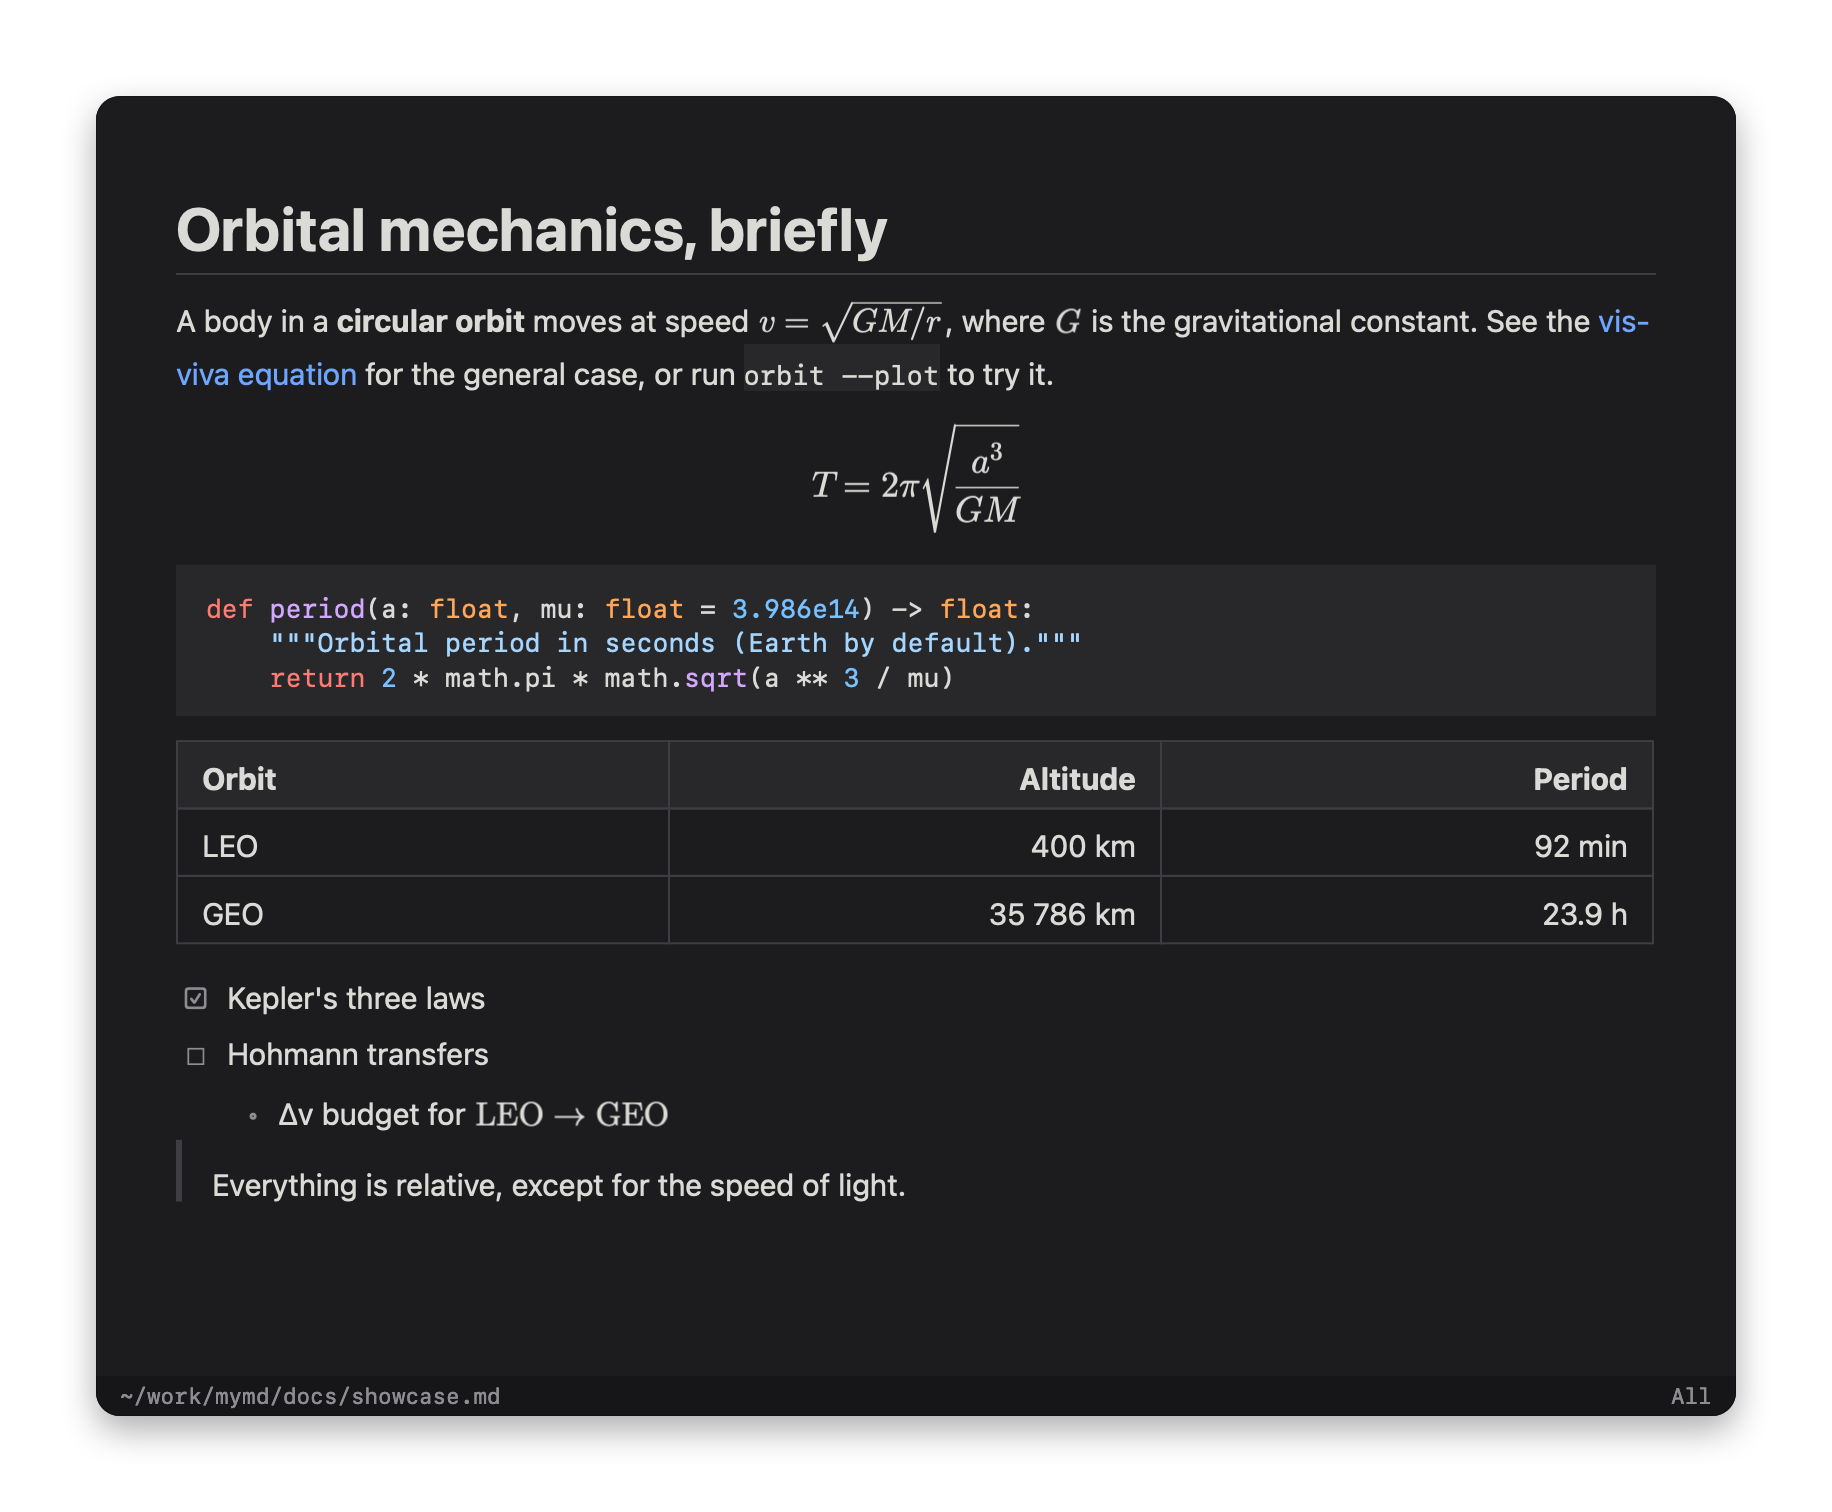
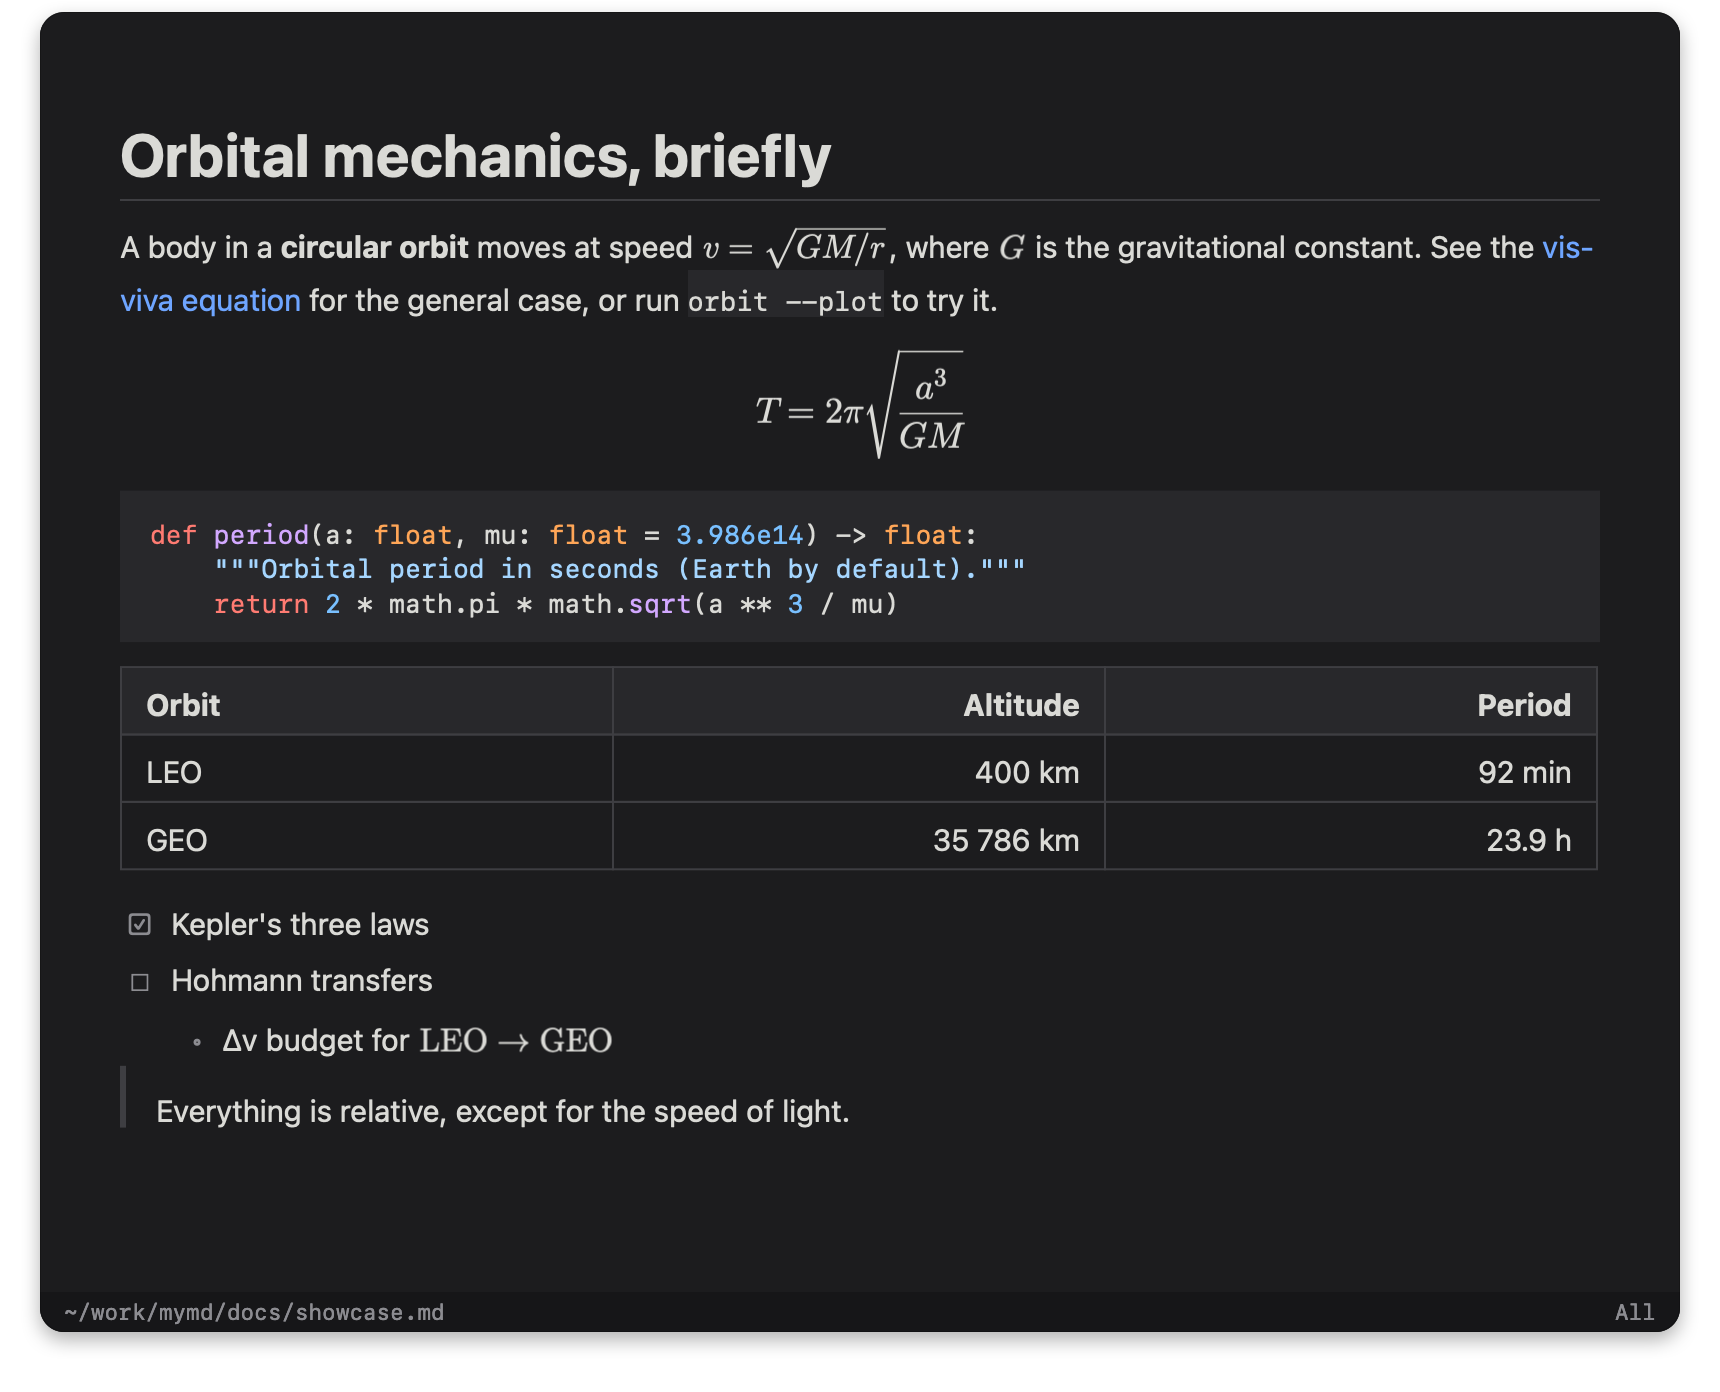
Trim screenshot padding so the README image sits closer to the text
The 48pt transparent margin on every side showed up as a large gap
above the picture. Padding is now just what the downward shadow
needs: 6pt top, 20pt sides, 30pt bottom.

diff --git a/tools/frame-shot.swift b/tools/frame-shot.swift
@@ -10,22 +10,24 @@ guard args.count == 3, let doc = CGPDFDocument(URL(fileURLWithPath: args[1]) as 
 }
 
 let scale: CGFloat = 2
-let margin: CGFloat = 48      // room for the shadow
+// Just enough room for the shadow, which falls downward: tight at the top so the
+// image doesn't leave a big gap under the text above it in the README.
+let pad = (top: CGFloat(6), side: CGFloat(20), bottom: CGFloat(30))
 let radius: CGFloat = 12
 let box = page.getBoxRect(.mediaBox)
-let size = CGSize(width: box.width + 2 * margin, height: box.height + 2 * margin)
+let size = CGSize(width: box.width + 2 * pad.side, height: box.height + pad.top + pad.bottom)
 
 let ctx = CGContext(data: nil, width: Int(size.width * scale), height: Int(size.height * scale),
                     bitsPerComponent: 8, bytesPerRow: 0, space: CGColorSpace(name: CGColorSpace.sRGB)!,
                     bitmapInfo: CGImageAlphaInfo.premultipliedLast.rawValue)!
 ctx.scaleBy(x: scale, y: scale)
 
-let frame = CGRect(x: margin, y: margin, width: box.width, height: box.height)
+let frame = CGRect(x: pad.side, y: pad.bottom, width: box.width, height: box.height)
 let shape = CGPath(roundedRect: frame, cornerWidth: radius, cornerHeight: radius, transform: nil)
 
 // Shadow: draw the window shape once with a soft, slightly offset shadow.
 ctx.saveGState()
-ctx.setShadow(offset: CGSize(width: 0, height: -14), blur: 36, color: CGColor(gray: 0, alpha: 0.32))
+ctx.setShadow(offset: CGSize(width: 0, height: -8), blur: 20, color: CGColor(gray: 0, alpha: 0.3))
 ctx.addPath(shape)
 ctx.setFillColor(CGColor(gray: 0.5, alpha: 1))
 ctx.fillPath()
@@ -35,7 +37,7 @@ ctx.restoreGState()
 ctx.saveGState()
 ctx.addPath(shape)
 ctx.clip()
-ctx.translateBy(x: margin - box.minX, y: margin - box.minY)
+ctx.translateBy(x: pad.side - box.minX, y: pad.bottom - box.minY)
 ctx.drawPDFPage(page)
 ctx.restoreGState()
 
